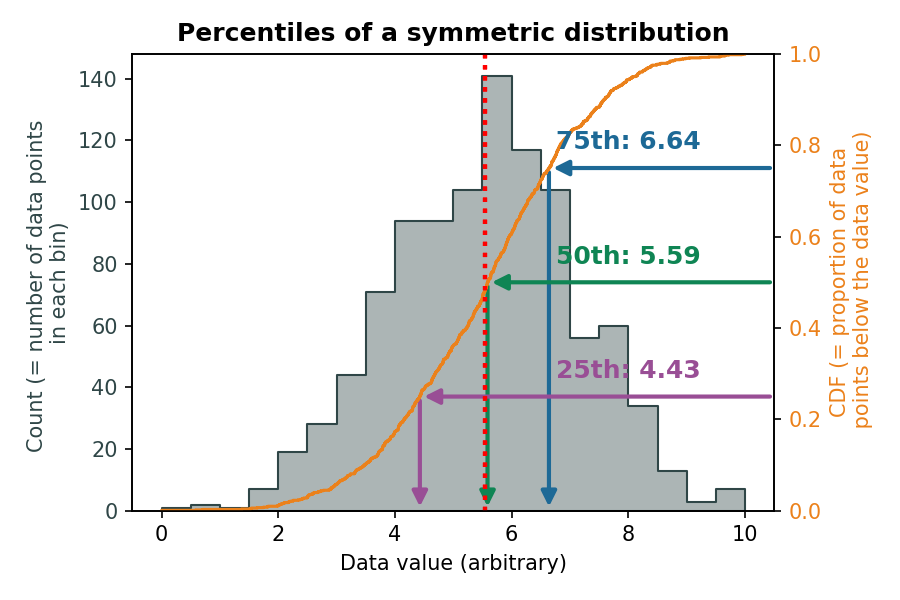
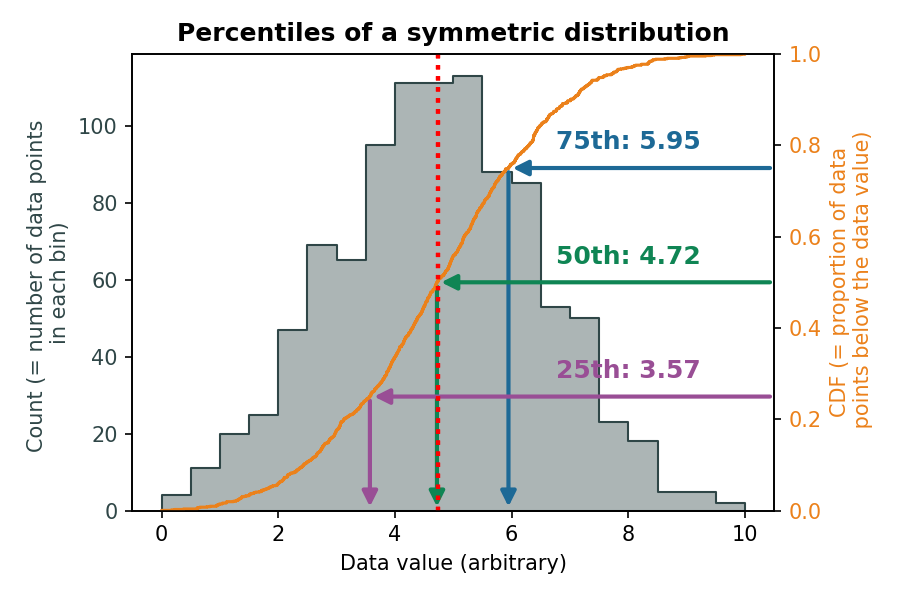
2026 update

diff --git a/custom.css b/custom.css
@@ -113,3 +113,17 @@ a {
   color: #d86405 !important;
 } 
 
+
+/* Presentation download buttons, matching Outils informatique. */
+.btn-download {
+  color: #d86405 !important;
+  background-color: transparent;
+  border: 1px solid #eb811b;
+  border-radius: 999px;
+}
+.btn-download:hover,
+.btn-download:focus {
+  color: #ffffff !important;
+  background-color: #eb811b;
+  border-color: #eb811b;
+}
